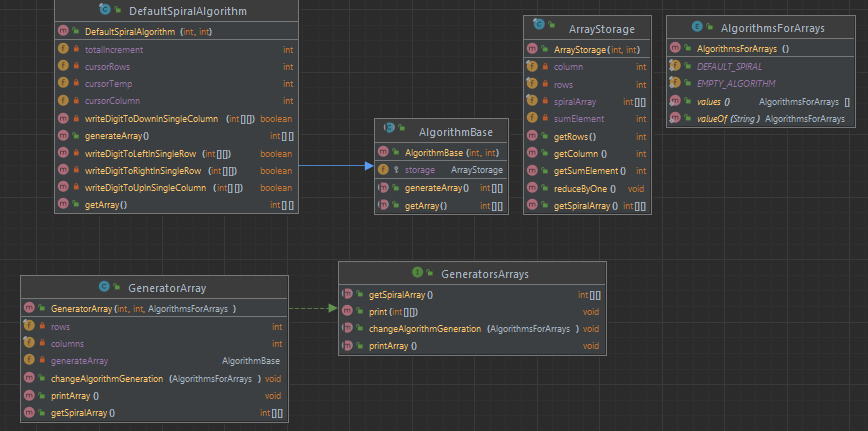
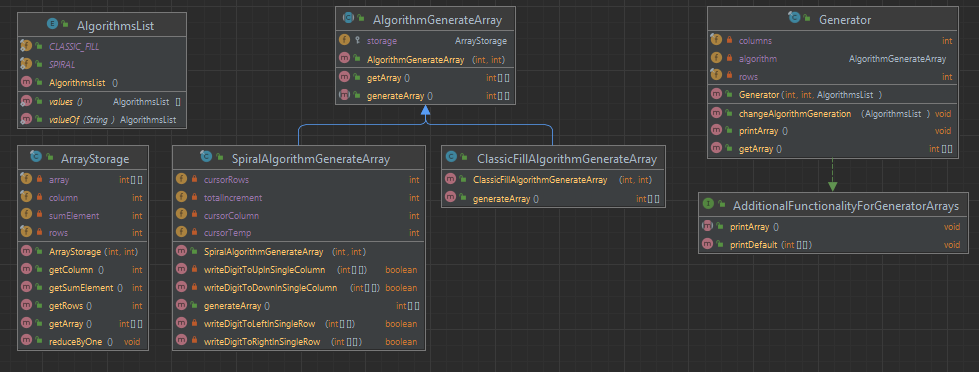
- rename - поправил ReadMe.md

diff --git a/src/generatorarray/Generator.java b/src/generatorarray/Generator.java
@@ -1,14 +1,14 @@
 package generatorarray;
 
-import algoritmConvertArrayImpl.BaseForAlgorithm;
-import algoritmConvertArrayImpl.ClassicFillAlgorithm;
-import algoritmConvertArrayImpl.SpiralAlgorithm;
+import algoritmConvertArrayImpl.AlgorithmGenerateArray;
+import algoritmConvertArrayImpl.ClassicFillAlgorithmGenerateArray;
+import algoritmConvertArrayImpl.SpiralAlgorithmGenerateArray;
 import algoritmConvertArrayImpl.AlgorithmsList;
 import arrayinstrumentalinterfaces.AdditionalFunctionalityForGeneratorArrays;
 
 /**
  * Фабрика + Bridge. Где: <br>
- * Мост выступает - {@link BaseForAlgorithm}<br>
+ * Мост выступает - {@link AlgorithmGenerateArray}<br>
  * Фабрика: фабричный метод changeAlgorithmGeneration()<br>
  *
  * Конструктор принимает размерность массива и алгоритм из {@link AlgorithmsList}<br>
@@ -16,7 +16,7 @@ import arrayinstrumentalinterfaces.AdditionalFunctionalityForGeneratorArrays;
 public final class Generator implements AdditionalFunctionalityForGeneratorArrays {
     private final int rows;
     private final int columns;
-    private BaseForAlgorithm algorithm;
+    private AlgorithmGenerateArray algorithm;
 
     public Generator(int rows, int columns, AlgorithmsList algorithms) {
         this.rows = rows;
@@ -27,11 +27,11 @@ public final class Generator implements AdditionalFunctionalityForGeneratorArray
     public void changeAlgorithmGeneration(AlgorithmsList algorithm) {
         switch (algorithm) {
             case SPIRAL: {
-                this.algorithm = new SpiralAlgorithm(rows, columns);
+                this.algorithm = new SpiralAlgorithmGenerateArray(rows, columns);
                 break;
             }
             case  CLASSIC_FILL:{
-                this.algorithm = new ClassicFillAlgorithm(rows, columns);
+                this.algorithm = new ClassicFillAlgorithmGenerateArray(rows, columns);
                 break;
             }
             default:

diff --git a/src/algoritmConvertArrayImpl/SpiralAlgorithmGenerateArray.java b/src/algoritmConvertArrayImpl/SpiralAlgorithmGenerateArray.java
@@ -12,14 +12,14 @@ package algoritmConvertArrayImpl;
  * cursorColumn - аналогично<br>
  * cursorTemp - принимает значение индекса по завершению каждой итерации. Имеет влияние на cursorRows/cursorColumn<br>
  */
-public final class SpiralAlgorithm extends BaseForAlgorithm {
+public final class SpiralAlgorithmGenerateArray extends AlgorithmGenerateArray {
 
     private int totalIncrement = 1;
     private int cursorRows = 0;
     private int cursorColumn = 0;
     private int cursorTemp = 0;
 
-    public SpiralAlgorithm(int rows, int columns) {
+    public SpiralAlgorithmGenerateArray(int rows, int columns) {
         super(rows, columns);
     }
 

diff --git a/src/algoritmConvertArrayImpl/AlgorithmGenerateArray.java b/src/algoritmConvertArrayImpl/AlgorithmGenerateArray.java
@@ -7,10 +7,10 @@ import storage.ArrayStorage;
  * generateArray - начать генерацию массива<br>
  * getArray - возвращает сгенерированный массив из {@link ArrayStorage}<br>
  */
-public abstract class BaseForAlgorithm {
+public abstract class AlgorithmGenerateArray {
     protected ArrayStorage storage;
 
-    public BaseForAlgorithm(int rows, int columns) {
+    public AlgorithmGenerateArray(int rows, int columns) {
         this.storage = new ArrayStorage(rows,columns);
     }
 

diff --git a/src/algoritmConvertArrayImpl/ClassicFillAlgorithmGenerateArray.java b/src/algoritmConvertArrayImpl/ClassicFillAlgorithmGenerateArray.java
@@ -6,8 +6,8 @@ package algoritmConvertArrayImpl;
  * 4 5 6
  * 7 8 9
  */
-public class ClassicFillAlgorithm extends BaseForAlgorithm {
-    public ClassicFillAlgorithm(int rows, int columns) {
+public class ClassicFillAlgorithmGenerateArray extends AlgorithmGenerateArray {
+    public ClassicFillAlgorithmGenerateArray(int rows, int columns) {
         super(rows, columns);
     }
 

diff --git a/ReadMe.md b/ReadMe.md
@@ -9,8 +9,9 @@
 
 **Особенности:**
 - расширяемость алгоритмов генерации массива за счет паттерна Bridge
-- Можно применять различные способы генерации массивов. Унифицированное решение.
+- Основной класс Generator содержит фабричные метод.   
+Дает возможность применять различные способы генерации массивов. Унифицированное решение.
 
-Тесты:
+Тесты:  
 ![img.png](img.png)
 
